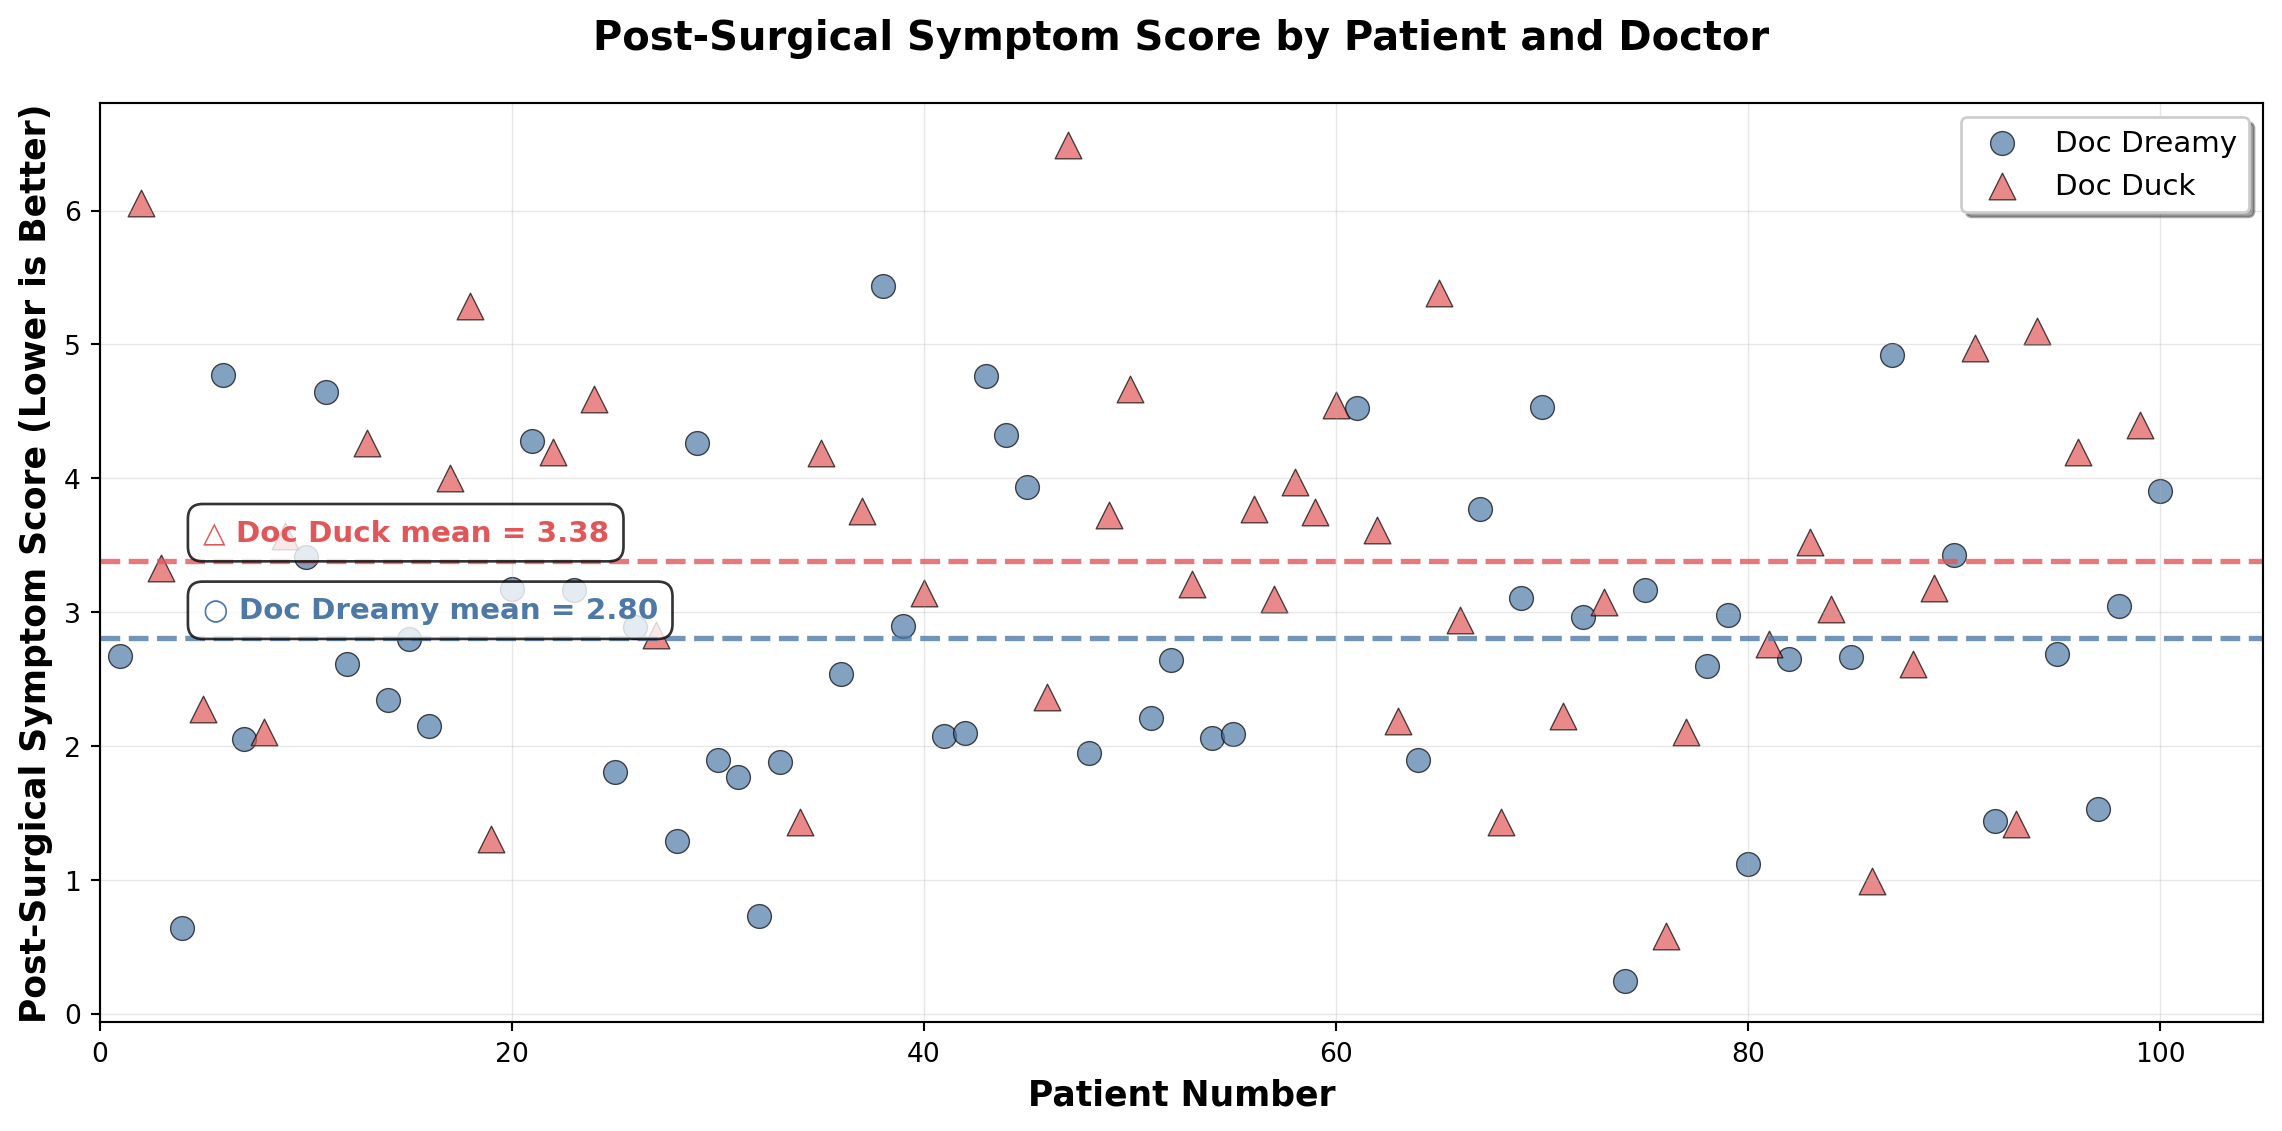
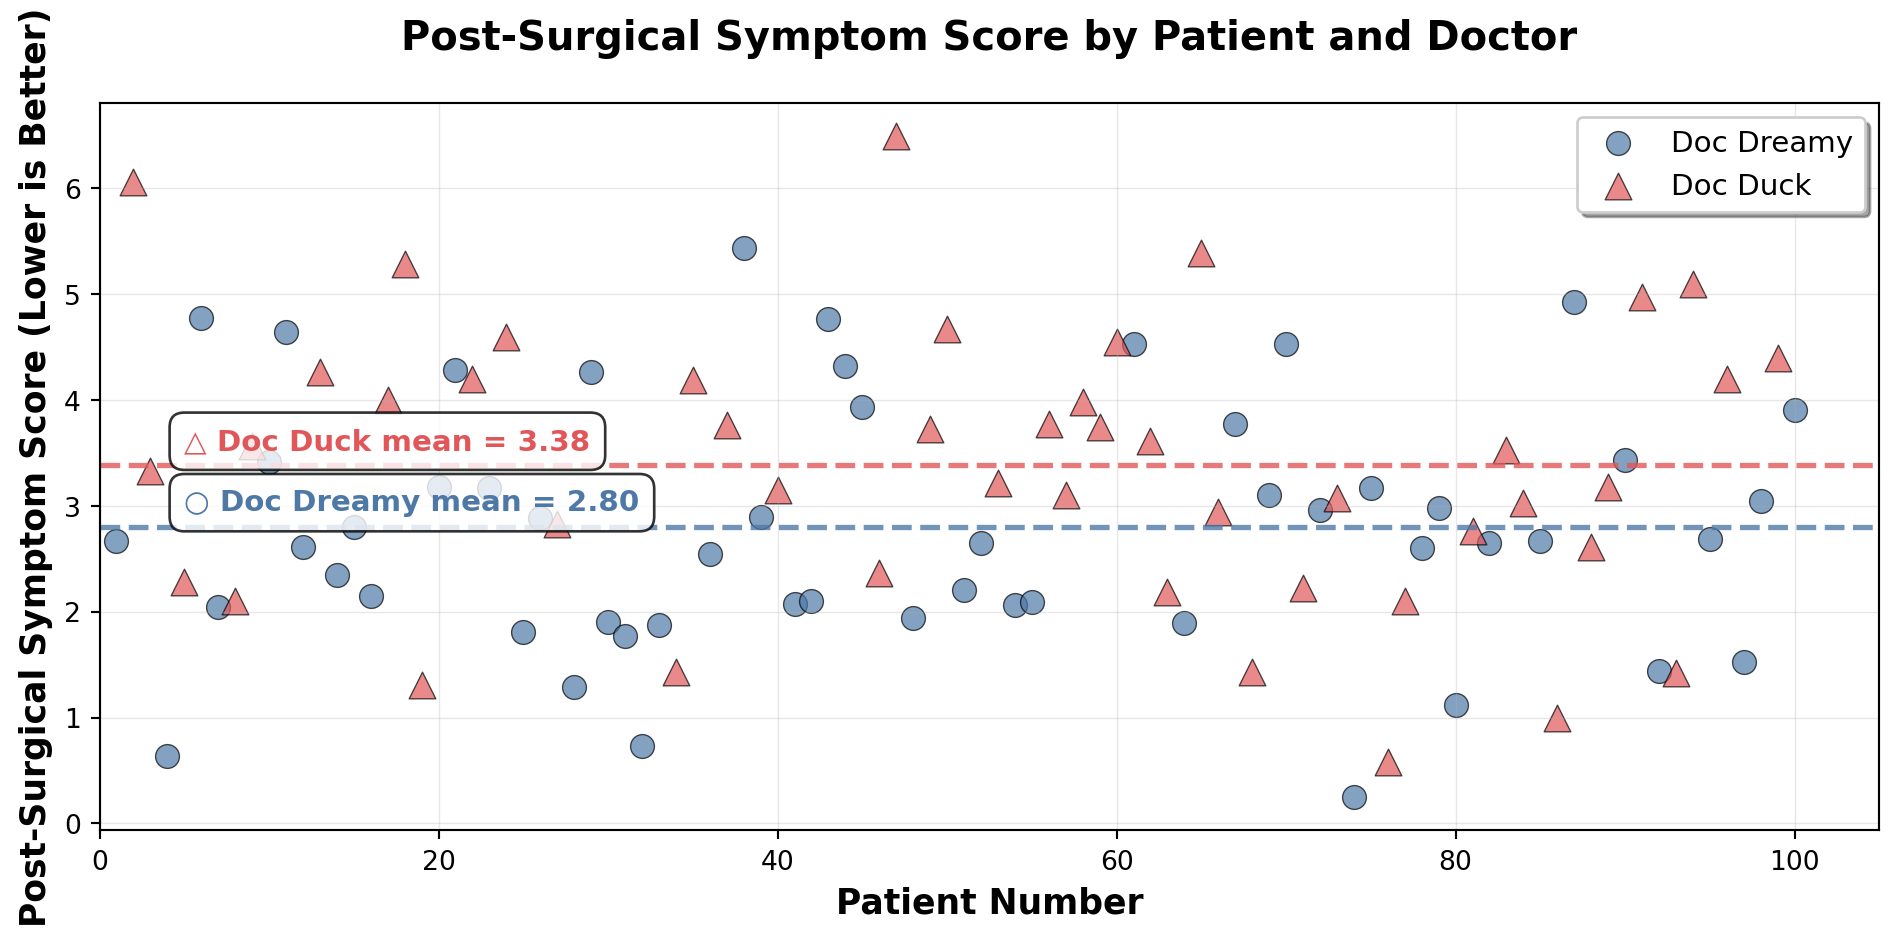
last

diff --git a/index.html b/index.html
@@ -187,7 +187,7 @@ window.Quarto = {
 <div class="cell-output cell-output-stdout">
 <pre><code>Number of patients: 100</code></pre>
 </div>
-<div id="load-data-python" class="cell-output cell-output-display" data-execution_count="9">
+<div id="load-data-python" class="cell-output cell-output-display" data-execution_count="2">
 <div>
 
 
@@ -259,7 +259,7 @@ window.Quarto = {
 <span id="cb3-6"><a href="#cb3-6" aria-hidden="true" tabindex="-1"></a>color_duck <span class="op">=</span> <span class="st">'#E15759'</span>    <span class="co"># Coral/red-orange</span></span>
 <span id="cb3-7"><a href="#cb3-7" aria-hidden="true" tabindex="-1"></a></span>
 <span id="cb3-8"><a href="#cb3-8" aria-hidden="true" tabindex="-1"></a><span class="co"># Create figure and axis</span></span>
-<span id="cb3-9"><a href="#cb3-9" aria-hidden="true" tabindex="-1"></a>fig, ax <span class="op">=</span> plt.subplots(figsize<span class="op">=</span>(<span class="dv">12</span>, <span class="dv">6</span>))</span>
+<span id="cb3-9"><a href="#cb3-9" aria-hidden="true" tabindex="-1"></a>fig, ax <span class="op">=</span> plt.subplots(figsize<span class="op">=</span>(<span class="dv">10</span>, <span class="dv">5</span>))</span>
 <span id="cb3-10"><a href="#cb3-10" aria-hidden="true" tabindex="-1"></a></span>
 <span id="cb3-11"><a href="#cb3-11" aria-hidden="true" tabindex="-1"></a><span class="co"># Separate data by doctor</span></span>
 <span id="cb3-12"><a href="#cb3-12" aria-hidden="true" tabindex="-1"></a>dreamy_data <span class="op">=</span> patients_df[patients_df[<span class="st">'doctor_name'</span>] <span class="op">==</span> <span class="st">'Doc Dreamy'</span>]</span>
@@ -303,7 +303,7 @@ window.Quarto = {
 <div id="fig-plot-outcomes" class="quarto-float quarto-figure quarto-figure-center anchored">
 <figure class="quarto-float quarto-float-fig figure">
 <div aria-describedby="fig-plot-outcomes-caption-0ceaefa1-69ba-4598-a22c-09a6ac19f8ca">
-<img src="index_files/figure-html/fig-plot-outcomes-output-1.png" width="1141" height="566" class="figure-img">
+<img src="index_files/figure-html/fig-plot-outcomes-output-1.png" width="949" height="470" class="figure-img">
 </div>
 <figcaption class="quarto-float-caption-bottom quarto-float-caption quarto-float-fig" id="fig-plot-outcomes-caption-0ceaefa1-69ba-4598-a22c-09a6ac19f8ca">
 Figure&nbsp;1: Post-Surgical Symptom Score (lower is better) - Observed Data
@@ -398,7 +398,7 @@ Figure&nbsp;4: DAG Model Explaining Surgical Outcomes
 <div class="cell-output cell-output-stdout">
 <pre><code>Number of randomized patients: 100</code></pre>
 </div>
-<div id="load-data-randomized-python" class="cell-output cell-output-display" data-execution_count="12">
+<div id="load-data-randomized-python" class="cell-output cell-output-display" data-execution_count="5">
 <div>
 
 
@@ -470,7 +470,7 @@ Figure&nbsp;4: DAG Model Explaining Surgical Outcomes
 <span id="cb6-6"><a href="#cb6-6" aria-hidden="true" tabindex="-1"></a>color_duck <span class="op">=</span> <span class="st">'#E15759'</span>    <span class="co"># Coral/red-orange</span></span>
 <span id="cb6-7"><a href="#cb6-7" aria-hidden="true" tabindex="-1"></a></span>
 <span id="cb6-8"><a href="#cb6-8" aria-hidden="true" tabindex="-1"></a><span class="co"># Create figure and axis</span></span>
-<span id="cb6-9"><a href="#cb6-9" aria-hidden="true" tabindex="-1"></a>fig, ax <span class="op">=</span> plt.subplots(figsize<span class="op">=</span>(<span class="dv">12</span>, <span class="dv">6</span>))</span>
+<span id="cb6-9"><a href="#cb6-9" aria-hidden="true" tabindex="-1"></a>fig, ax <span class="op">=</span> plt.subplots(figsize<span class="op">=</span>(<span class="dv">10</span>, <span class="dv">5</span>))</span>
 <span id="cb6-10"><a href="#cb6-10" aria-hidden="true" tabindex="-1"></a></span>
 <span id="cb6-11"><a href="#cb6-11" aria-hidden="true" tabindex="-1"></a><span class="co"># Separate data by doctor</span></span>
 <span id="cb6-12"><a href="#cb6-12" aria-hidden="true" tabindex="-1"></a>dreamy_data <span class="op">=</span> patients_randomized_df[patients_randomized_df[<span class="st">'doctor_name'</span>] <span class="op">==</span> <span class="st">'Doc Dreamy'</span>]</span>
@@ -515,7 +515,7 @@ Figure&nbsp;4: DAG Model Explaining Surgical Outcomes
 <div id="fig-plot-outcomes-randomized" class="quarto-float quarto-figure quarto-figure-center anchored">
 <figure class="quarto-float quarto-float-fig figure">
 <div aria-describedby="fig-plot-outcomes-randomized-caption-0ceaefa1-69ba-4598-a22c-09a6ac19f8ca">
-<img src="index_files/figure-html/fig-plot-outcomes-randomized-output-1.png" width="1141" height="566" class="figure-img">
+<img src="index_files/figure-html/fig-plot-outcomes-randomized-output-1.png" width="950" height="470" class="figure-img">
 </div>
 <figcaption class="quarto-float-caption-bottom quarto-float-caption quarto-float-fig" id="fig-plot-outcomes-randomized-caption-0ceaefa1-69ba-4598-a22c-09a6ac19f8ca">
 Figure&nbsp;5: Post-Surgical Symptom Score (lower is better) for randomized patients.
@@ -538,7 +538,7 @@ Figure&nbsp;5: Post-Surgical Symptom Score (lower is better) for randomized pati
 <span id="cb7-6"><a href="#cb7-6" aria-hidden="true" tabindex="-1"></a>color_duck <span class="op">=</span> <span class="st">'#E15759'</span>    <span class="co"># Coral/red-orange</span></span>
 <span id="cb7-7"><a href="#cb7-7" aria-hidden="true" tabindex="-1"></a></span>
 <span id="cb7-8"><a href="#cb7-8" aria-hidden="true" tabindex="-1"></a><span class="co"># Create figure and axis</span></span>
-<span id="cb7-9"><a href="#cb7-9" aria-hidden="true" tabindex="-1"></a>fig, ax <span class="op">=</span> plt.subplots(figsize<span class="op">=</span>(<span class="dv">12</span>, <span class="dv">6</span>))</span>
+<span id="cb7-9"><a href="#cb7-9" aria-hidden="true" tabindex="-1"></a>fig, ax <span class="op">=</span> plt.subplots(figsize<span class="op">=</span>(<span class="dv">10</span>, <span class="dv">5</span>))</span>
 <span id="cb7-10"><a href="#cb7-10" aria-hidden="true" tabindex="-1"></a></span>
 <span id="cb7-11"><a href="#cb7-11" aria-hidden="true" tabindex="-1"></a><span class="co"># Add shaded region from -1 to 1 on x-axis (add first so it's behind everything)</span></span>
 <span id="cb7-12"><a href="#cb7-12" aria-hidden="true" tabindex="-1"></a>ax.axvspan(<span class="op">-</span><span class="dv">1</span>, <span class="dv">1</span>, alpha<span class="op">=</span><span class="fl">0.15</span>, color<span class="op">=</span><span class="st">'gray'</span>, zorder<span class="op">=</span><span class="dv">0</span>, label<span class="op">=</span><span class="st">'Overlap Region (-1 to 1)'</span>)</span>
@@ -585,7 +585,7 @@ Figure&nbsp;5: Post-Surgical Symptom Score (lower is better) for randomized pati
 <div id="fig-plot-outcomes-severity" class="quarto-float quarto-figure quarto-figure-center anchored">
 <figure class="quarto-float quarto-float-fig figure">
 <div aria-describedby="fig-plot-outcomes-severity-caption-0ceaefa1-69ba-4598-a22c-09a6ac19f8ca">
-<img src="index_files/figure-html/fig-plot-outcomes-severity-output-1.png" width="1141" height="566" class="figure-img">
+<img src="index_files/figure-html/fig-plot-outcomes-severity-output-1.png" width="949" height="470" class="figure-img">
 </div>
 <figcaption class="quarto-float-caption-bottom quarto-float-caption quarto-float-fig" id="fig-plot-outcomes-severity-caption-0ceaefa1-69ba-4598-a22c-09a6ac19f8ca">
 Figure&nbsp;6: Post-Surgical Symptom Score (lower is better) by Patient and Severity
